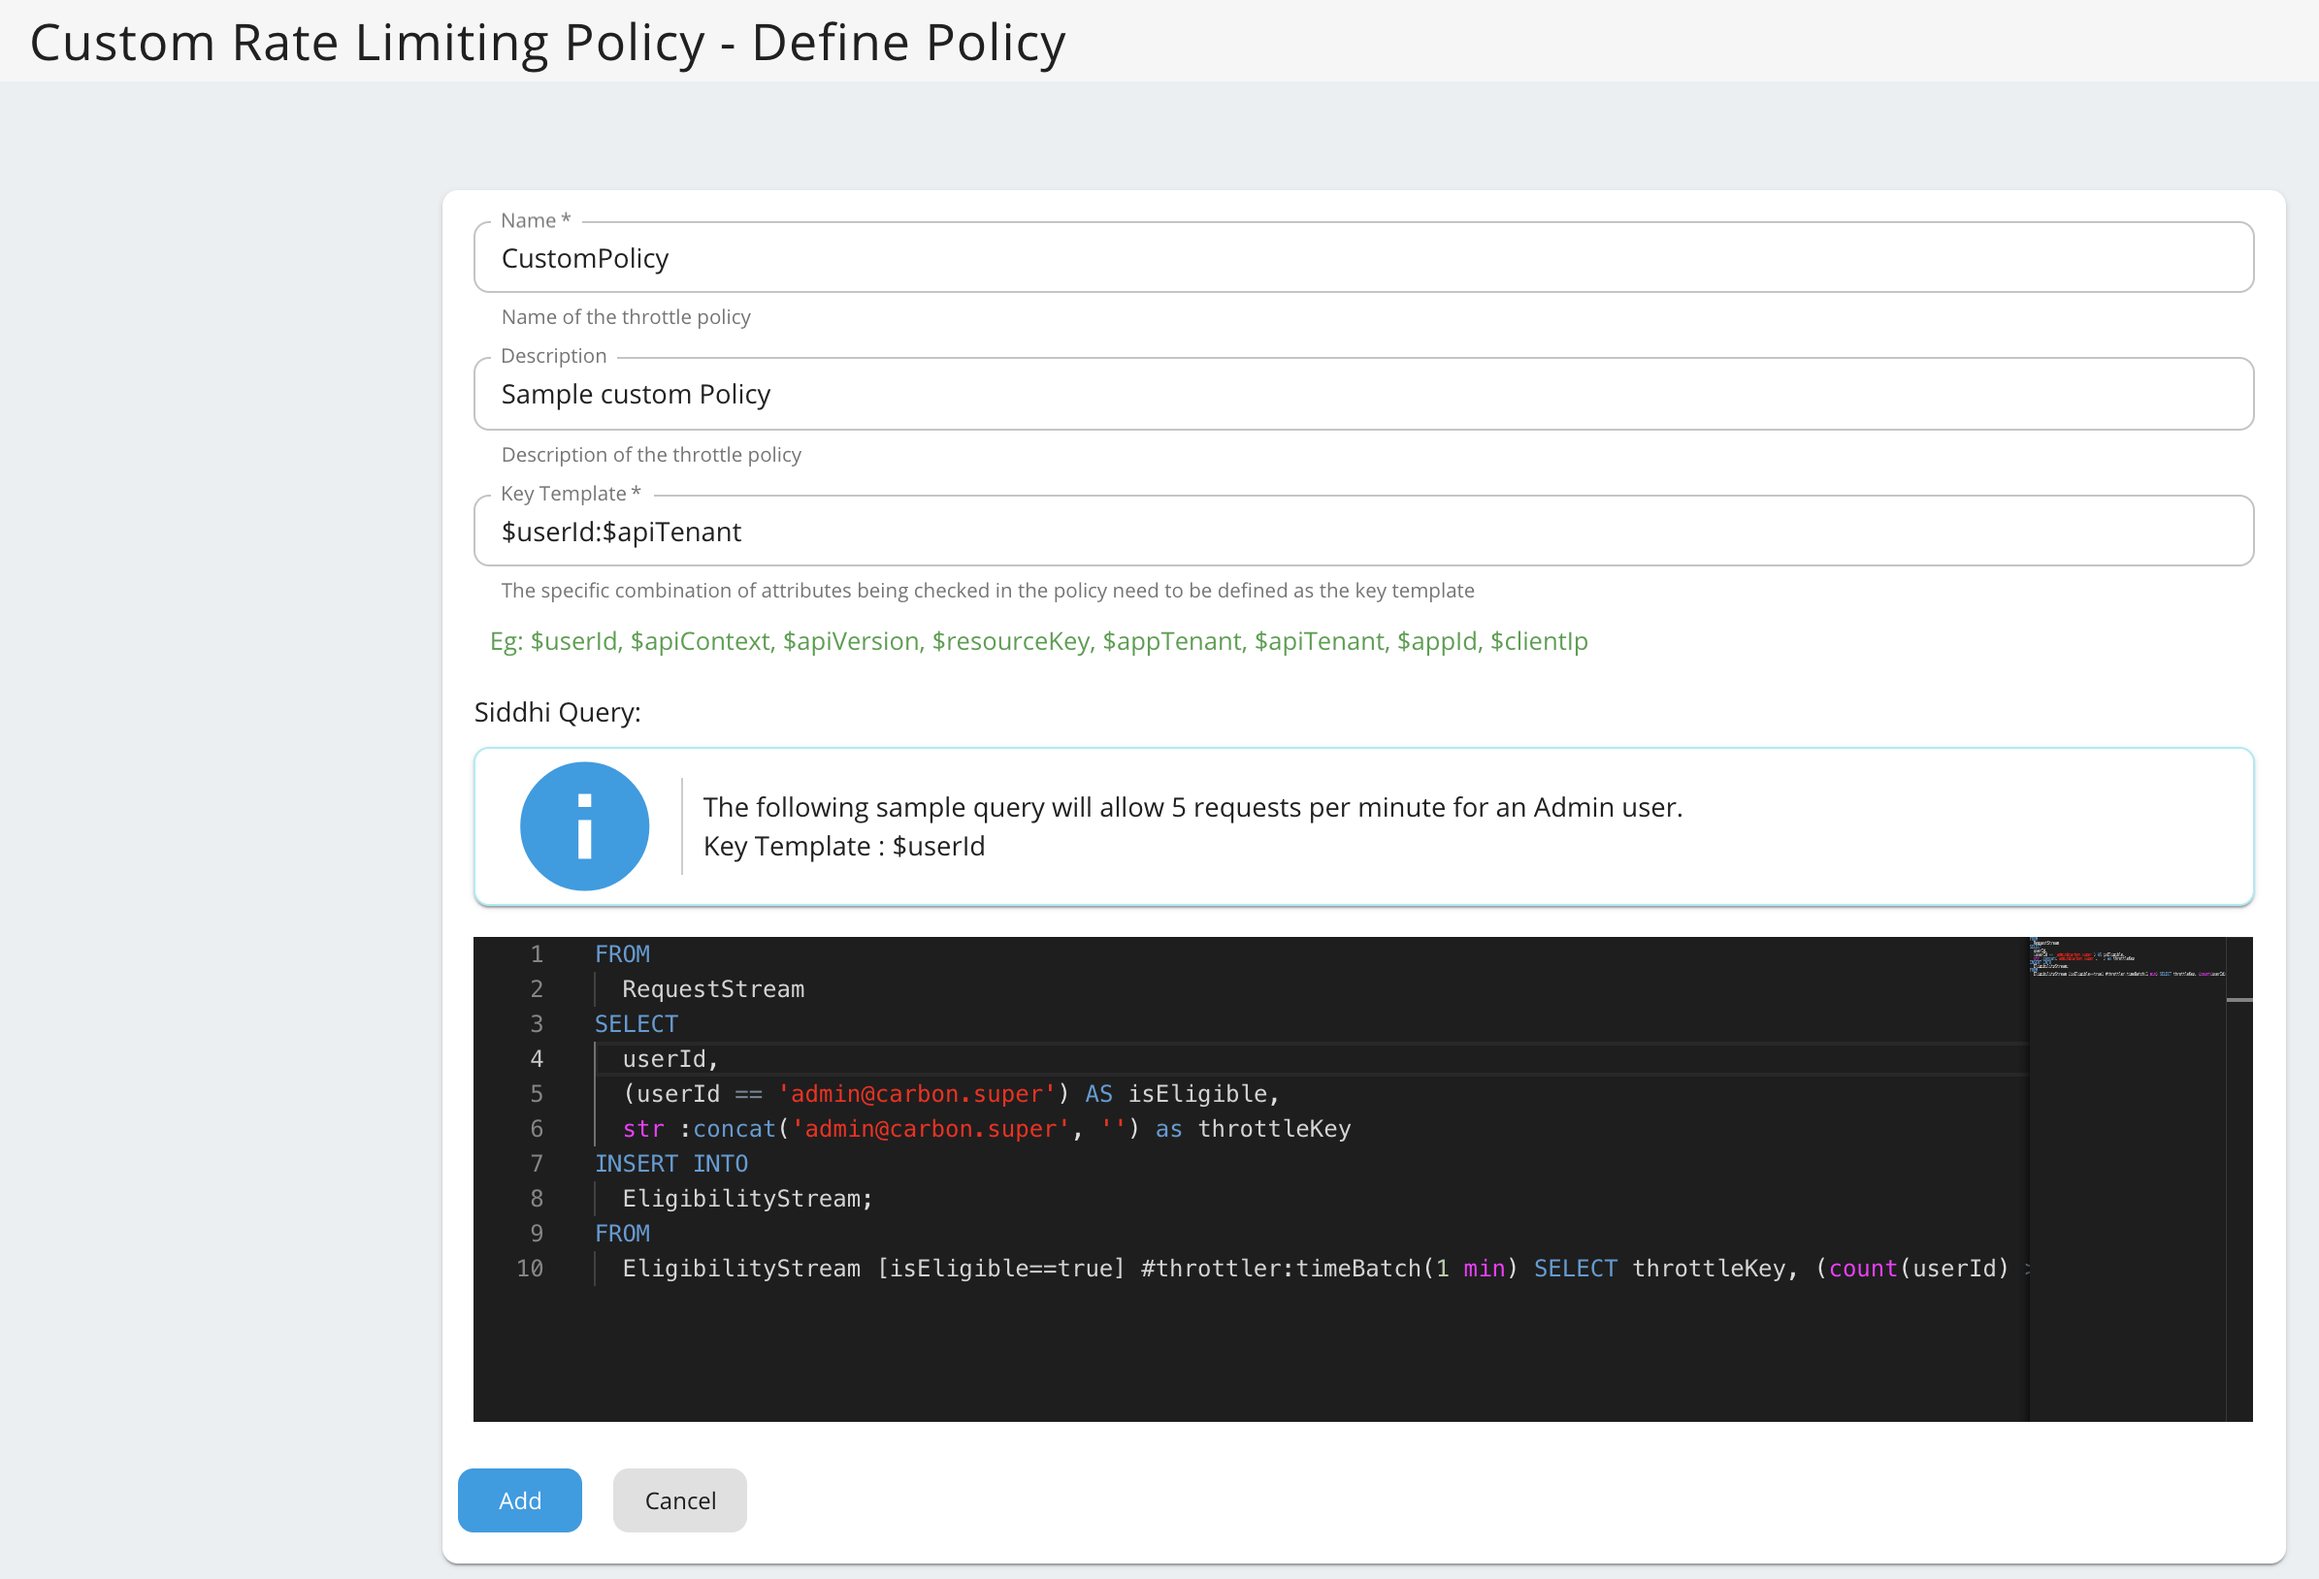
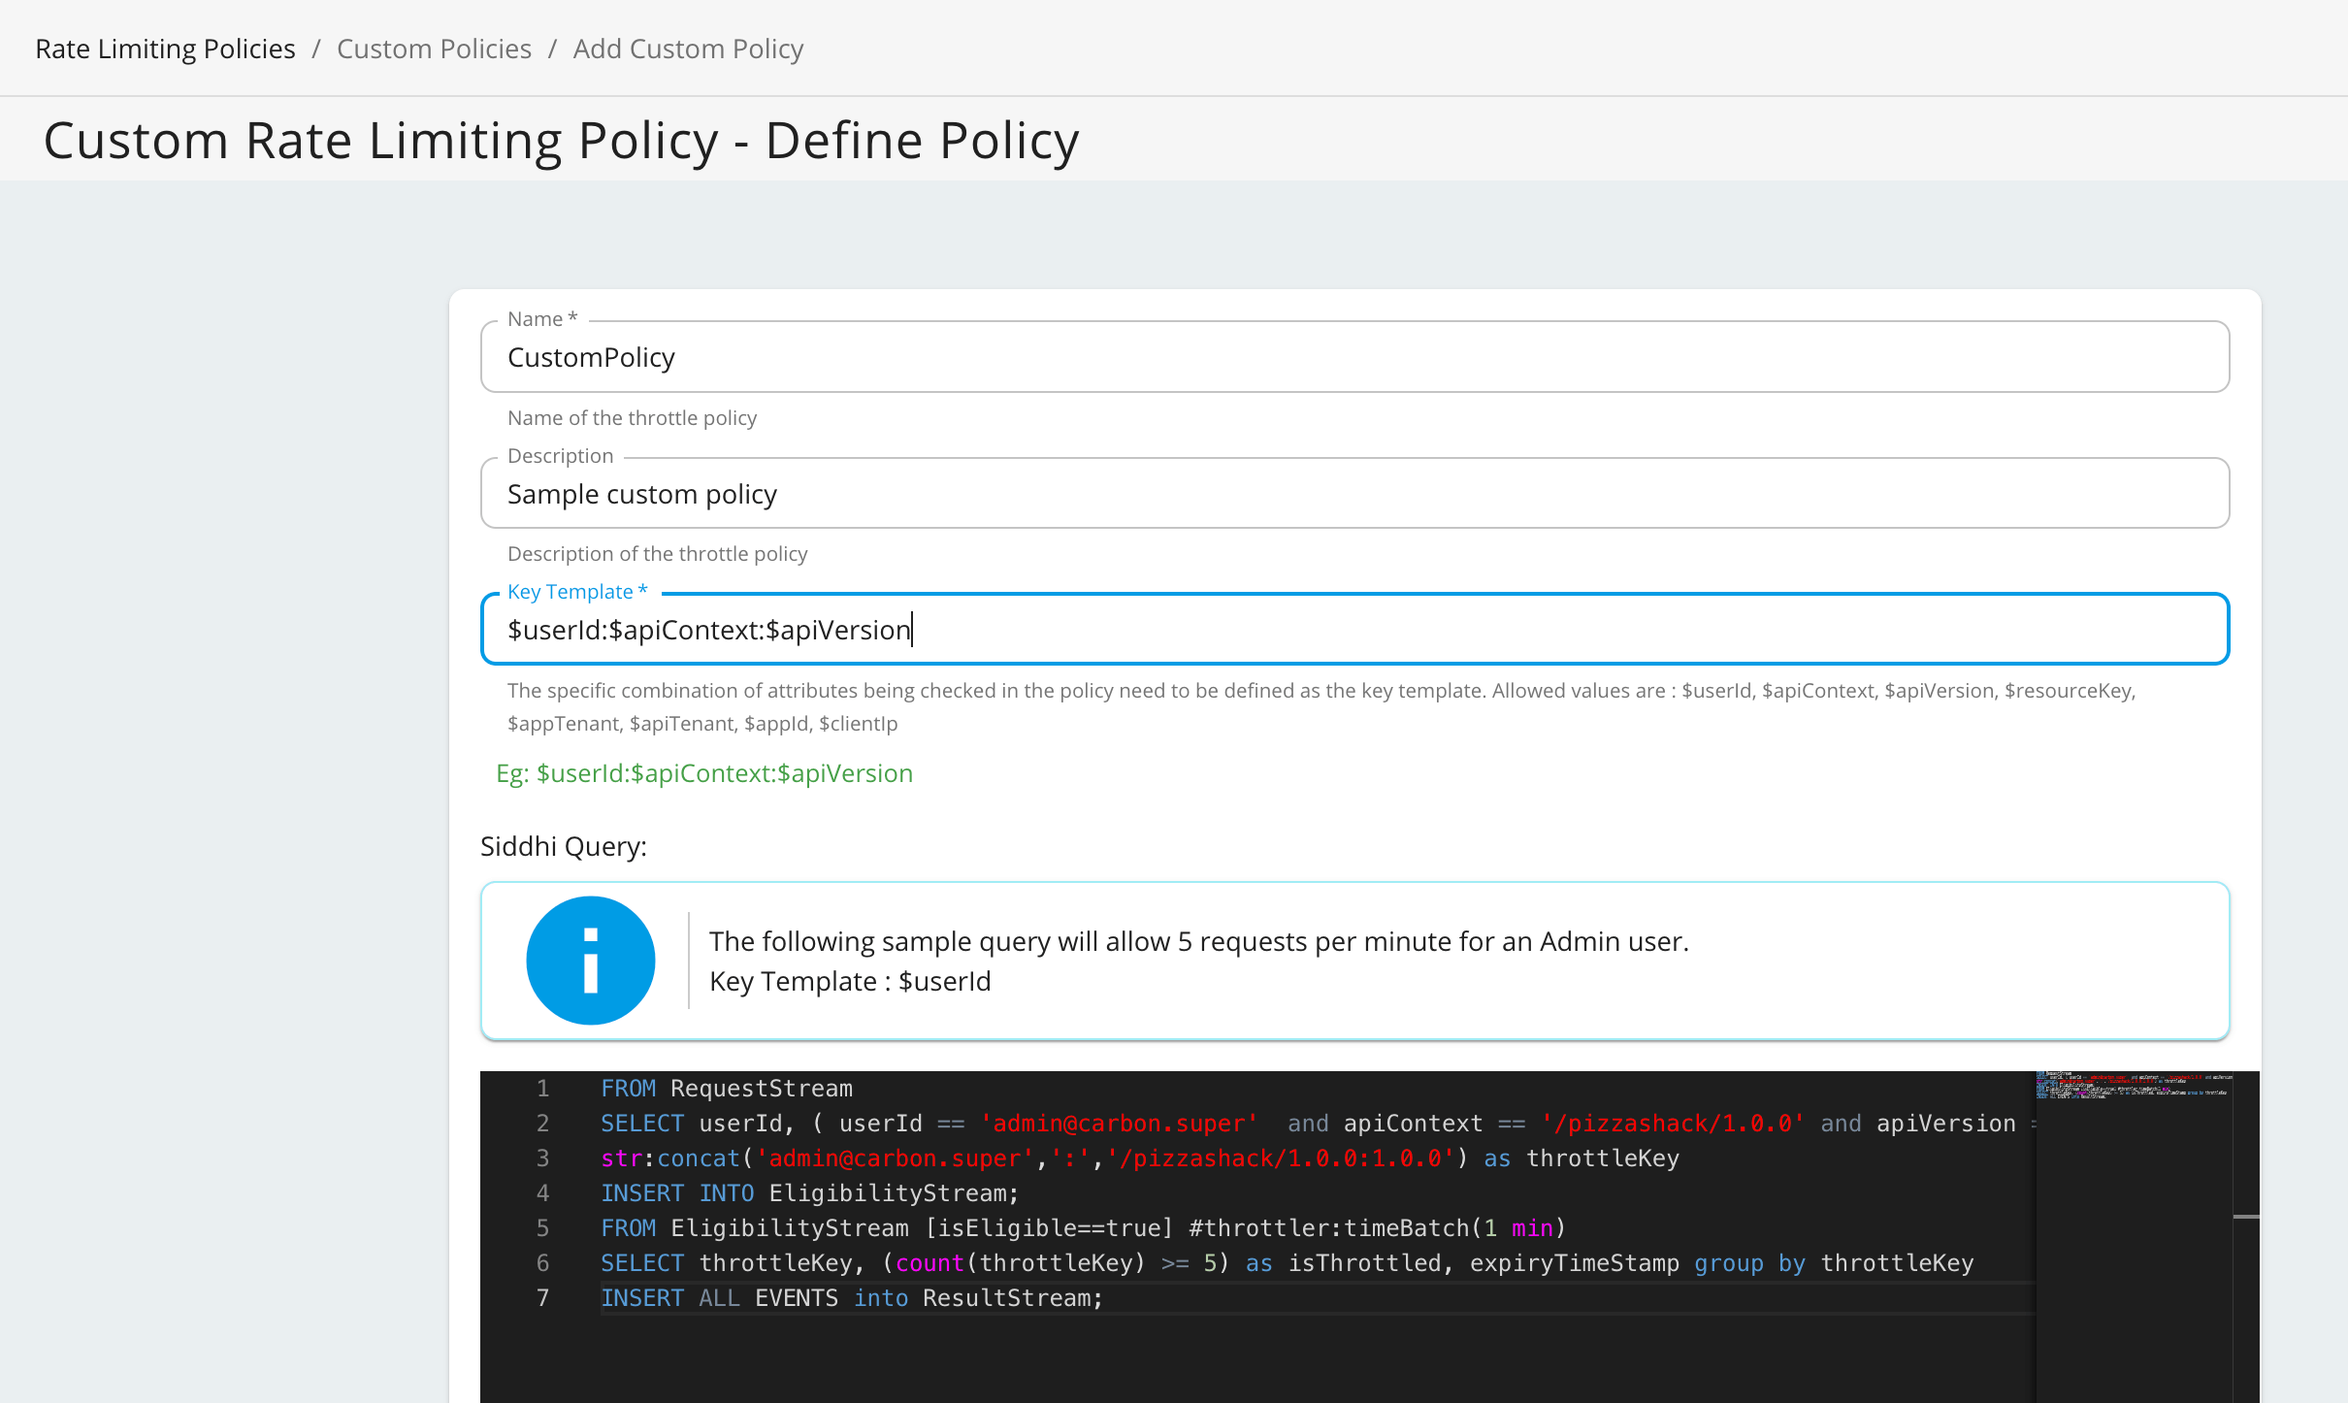
fixes A-1615

diff --git a/en/docs/design/rate-limiting/advanced-topics/custom-throttling.md b/en/docs/design/rate-limiting/advanced-topics/custom-throttling.md
@@ -6,35 +6,64 @@ Custom rate limiting allows system administrators to define dynamic rules for sp
 
 For example, the following sample custom policy allows the admin user to send 5 requests per minute to the Pizza Shack API. 
 
-1.  Sign in to the Admin Portal using the URL (https://&lt;ip\_address&gt;:&lt;port&gt;/admin) and your admin credentials (admin/admin by default).
+1.  Sign in to the Admin Portal using the URL (`https://<ip_address>:<port>/admin`) and your admin credentials (admin/admin by default).
+      
+     Example:
+
+     `https://localhost:9443/admin`
+
 2.  Click **Rate Limiting Policies** tab and click **Custom Policies** tab.
 
-    [![Add Custom policy page]({{base_path}}/assets/img/learn/custom_policy_left_tag.png){: style="width:30%"}]({{base_path}}/assets/img/learn/custom_policy_left_tag.png)
-
+     <a href="{{base_path}}/assets/img/learn/custom_policy_left_tag.png"><img src="{{base_path}}/assets/img/learn/custom_policy_left_tag.png" alt="Add Custom policy page" width="40%"></a>
+    
 3.  To add a new policy, click **Define Policy**.
 
     [![Add Custom policy page]({{base_path}}/assets/img/learn/click_custom_policy.png)]({{base_path}}/assets/img/learn/click_custom_policy.png)
 
 4.  Fill in the required details and click **Save**.
     
-    **Key Template**
-
-    ``` java
-        $userId:$apiContext:$apiVersion
-    ```
-
+    <table>
+    <tr>
+    <th> 
+    <b>Field</b></th>
+    <th>
+    <b>Description</b>
+    </th>
+    </tr>
+    <tr>
+    <td> 
+    <b>Name</td>
+    <td>
+    CustomPolicy
+    </td>
+    </tr>
+    <tr>
+    <td> 
+    <b>Description</b></td>
+    <td> 
+    Sample custom policy</td>
+    </tr>
+    <tr>
+    <td> 
+    <b>Key Template</b>
+    </td>
+    <td> <code>$userId:$apiContext:$apiVersion</code>
+    </tr>
+    </tr>
+    </table>
+ 
     **Siddhi query**
 
-    ``` java
-        FROM RequestStream
-        SELECT userId, ( userId == 'admin@carbon.super'  and apiContext == '/pizzashack/1.0.0' and apiVersion == '1.0.0') AS isEligible ,
-        str:concat('admin@carbon.super',':','/pizzashack/1.0.0:1.0.0') as throttleKey
-         
-        INSERT INTO EligibilityStream;
-        FROM EligibilityStream[isEligible==true]#window.time(1 min)
-        SELECT throttleKey, (count(throttleKey) >= 5) as isThrottled group by throttleKey
-        INSERT ALL EVENTS into ResultStream;
     ```
+    FROM RequestStream
+    SELECT userId, ( userId == 'admin@carbon.super'  and apiContext == '/pizzashack/1.0.0' and apiVersion == '1.0.0') AS isEligible ,
+    str:concat('admin@carbon.super',':','/pizzashack/1.0.0:1.0.0') as throttleKey
+    INSERT INTO EligibilityStream;
+    FROM EligibilityStream [isEligible==true] #throttler:timeBatch(1 min)
+    SELECT throttleKey, (count(throttleKey) >= 5) as isThrottled, expiryTimeStamp group by throttleKey
+    INSERT ALL EVENTS into ResultStream;
+    ```
+
     [![Add Custom policy page]({{base_path}}/assets/img/learn/throttling-custom-policy.png)]({{base_path}}/assets/img/learn/throttling-custom-policy.png)
 
 As shown in the above Siddhi query, the throttle key must match the key template format. If there is a mismatch between the key template format and the throttle key, requests will not be throttled.
